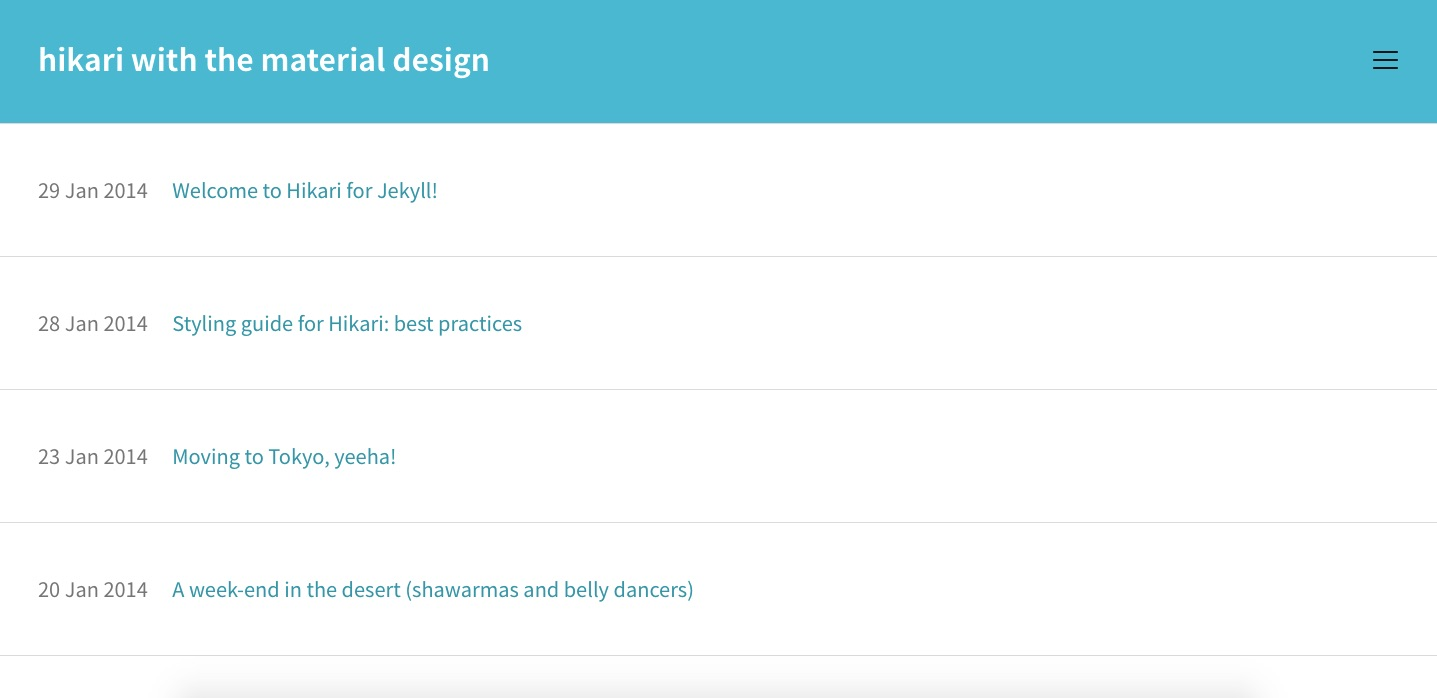
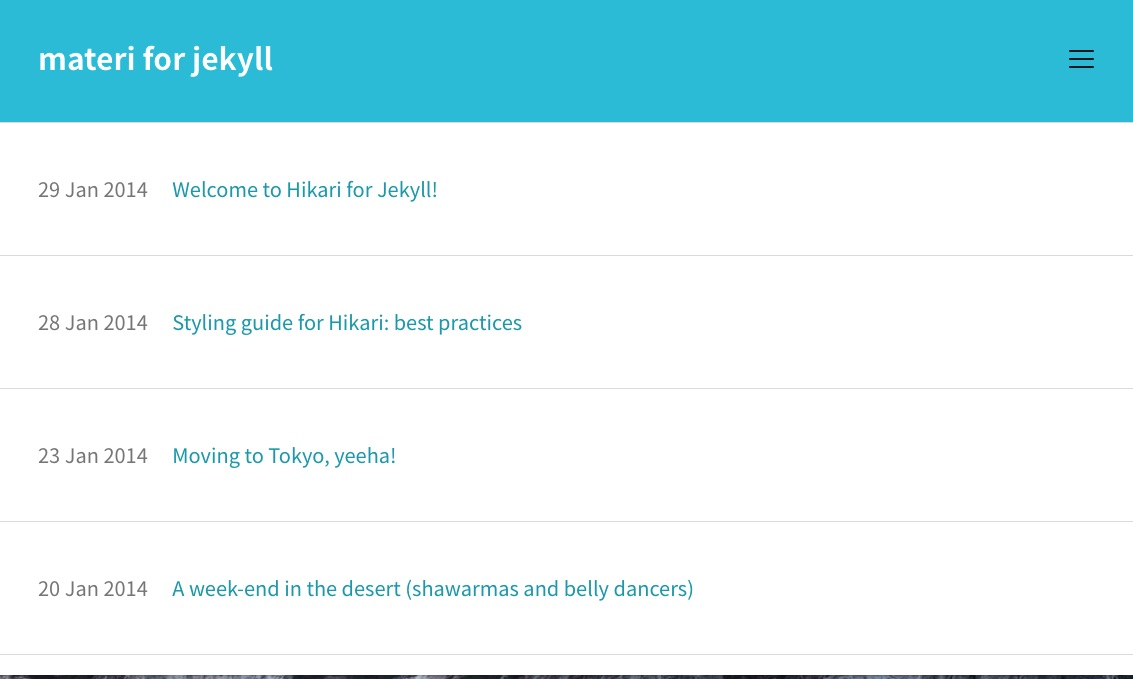
Change name to materi

diff --git a/_includes/link_your_font.html b/_includes/link_your_font.html
@@ -1,2 +1,2 @@
-{% comment %} Webfont https://www.google.com/fonts {% endcomment %}
+{% comment %} Webfont http://www.google.com/fonts/earlyaccess {% endcomment %}
 <link rel="stylesheet" href="//fonts.googleapis.com/earlyaccess/notosansjapanese.css">

diff --git a/README.md b/README.md
@@ -1,20 +1,29 @@
-# hikari
+# materi for jekyll
 
-__( forked and apply a Material Design )__
+materi for jekyll forked the [hikari-for-Jekyll](https://github.com/m3xm/hikari-for-Jekyll).
+Modified theme and Added some features:)
 
-Hikari is an open-source [Jekyll](http://jekyllrb.com) theme perfect for dev-savvy bloggers who wants to get started with Jekyll in a very minimal way.
+* Apply theme like a Material Design
+* Apply font of Google Noto (Noto Sans Japanese is default)
+* Generate tag page (No plugin)
+* Generate sitemap.xml
+
+[View demo](http://ogaclejapan.github.io/materi-for-jekyll)
+
+![preview](https://raw.githubusercontent.com/ogaclejapan/materi-for-jekyll/master/art/screenshot1.jpg)
+
+![preview](https://raw.githubusercontent.com/ogaclejapan/materi-for-jekyll/master/art/screenshot2.jpg)
+
+![preview](https://raw.githubusercontent.com/ogaclejapan/materi-for-jekyll/master/art/screenshot3.jpg)
+
+
+### hikari for jekyll
+
+>Hikari is an open-source [Jekyll](http://jekyllrb.com) theme perfect for dev-savvy bloggers who wants to get started with Jekyll in a very minimal way.
 
 - SCSS!
 - Responsive
 - Lightweight (no JS library has been abused here)
-
-![preview](https://raw.githubusercontent.com/ogaclejapan/hikari-for-Jekyll/master/art/screenshot1.jpg)
-
-![preview](https://raw.githubusercontent.com/ogaclejapan/hikari-for-Jekyll/master/art/screenshot2.jpg)
-
-![preview](https://raw.githubusercontent.com/ogaclejapan/hikari-for-Jekyll/master/art/screenshot3.jpg)
-
-[View demo](http://ogaclejapan.github.io/hikari-for-Jekyll)
 
 
 ### How to install
@@ -22,8 +31,7 @@ Hikari is an open-source [Jekyll](http://jekyllrb.com) theme perfect for dev-sav
 1. Clone this repo
 2. Customize \_config.yml and replace all dummy posts by yours
 3. Change your profile picture in `~/assets/img/avatar.jpg`
-3. Publish (I recommend [GitHub Pages](https://help.github.com/articles/using-jekyll-with-pages), it's free)
-
+4. Publish (I recommend [GitHub Pages](https://help.github.com/articles/using-jekyll-with-pages), it's free)
 
 ### Development
 
@@ -43,23 +51,62 @@ Hikari is an open-source [Jekyll](http://jekyllrb.com) theme perfect for dev-sav
 4. Visit the site at [http://localhost:4000](http://localhost:4000)
 
 
-### Author
+### How to generate tag page
 
-**Mathieu Mayer-Mazzoli**
-- <http://m3xm.github.io>
-- <http://twitter.com/mx3m>
-- <http://www.dribbble.com/m3xm>
+1. Tagging to post
+2. Define the added tag in the `data/tags.yml`
+3. Create tag layout file in the `tags/(tag name).md`
 
+#### Tagging to post
 
-### Main Contributors
+Add a tag to your post entry front-matter block.
 
-**Ross Allen**
-- <https://github.com/ssorallen>
+```
+---
+layout: post
+title:  "Welcome to Hikari for Jekyll!"
+date:   2014-01-28 16:57:51
+tags: [jekyll, material]
+---
 
-**Julien Rousseau**
-- <https://github.com/evarouss>
+```
+
+#### Define the added tag in the `data/tags.yml`
+
+```
+
+# To generate the tag page will need to be defined here
+
+jekyll:
+  name: Jekyll
+material:
+  name: Material Design
+
+```
+
+#### Create tag layout file in the `tags/(tag name).md`
+
+```
+---
+layout: tag
+title: 'Tags: Jekyll'
+tag: jekyll
+permalink: tags/jekyll/
+---
+
+```
+
+### How to customize font family
+
+Change the two files.
+
+* `_includes/link_your_font.html`
+* `_sass/base/_your_font_family.scss`
 
 
 ### License
+
+Copyright (c) 2015 ogaclejapan
+Copyright (c) 2014 Mathieu Mayer-Mazzoli
 
 Open source. [MIT license](http://opensource.org/licenses/MIT).
